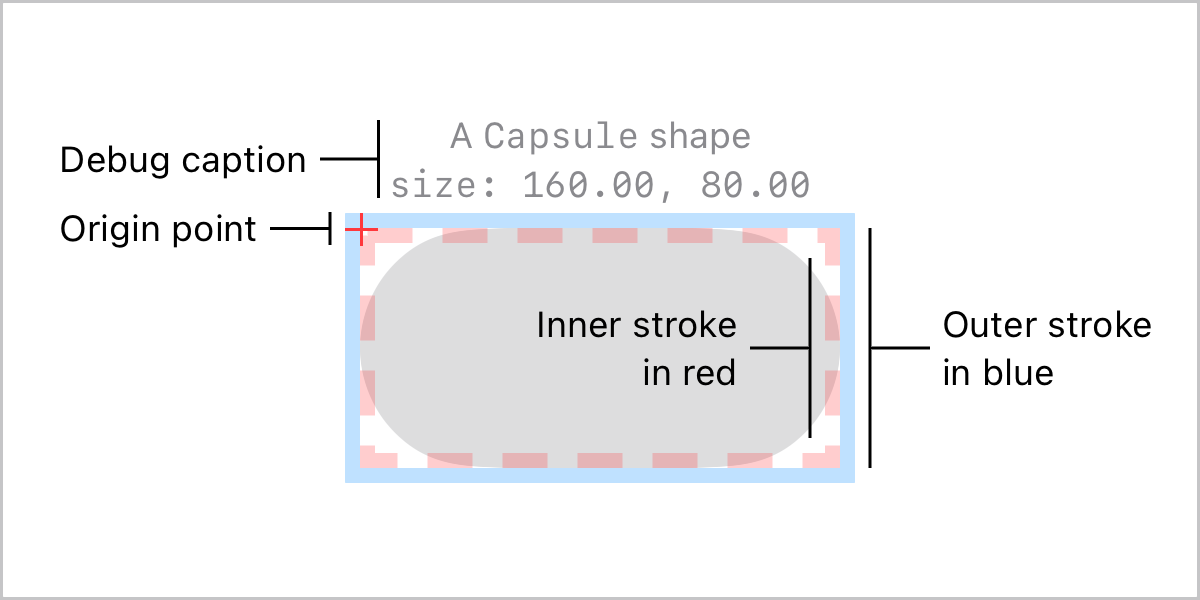
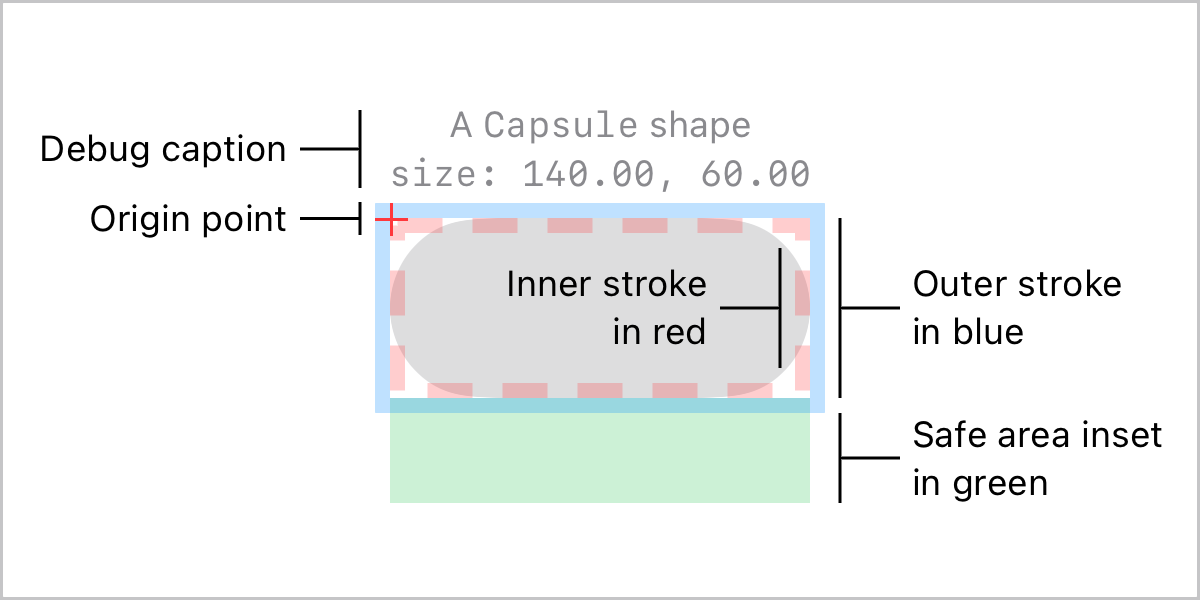
add safearea inset to components image

Changed region(s): [[0.0308, 0.18, 0.9867, 0.84], [0.74, 0.78, 0.8633, 0.84], [0.7708, 0.6, 0.8942, 0.66]]

diff --git a/sources/examples/DocsRenderPreview.swift b/sources/examples/DocsRenderPreview.swift
@@ -15,10 +15,10 @@ struct ExamplesForDebugOverlay {
     @ViewBuilder static var components: some View {
         Capsule()
         .fill(.quaternary)
-        .frame(width: 160, height: 80)
+        .frame(width: 140, height: 60)
         .debugOverlay(.caption("A `Capsule` shape"), .size, .alignment(.outerTop))
         .overlay {
-            // Outer Stroke.
+            // Outer stroke.
             FloatingAlignedContainer(alignment: .outerTrailing, spacing: 10) { contentAlignments in
                 HStack(spacing: 4) {
                     GeometryReader { geometry in
@@ -30,14 +30,34 @@ struct ExamplesForDebugOverlay {
                         }
                         .stroke(.primary, lineWidth: 1)
                     }
-                    .frame(size: [20, 80])
+                    .frame(size: [20, 60])
 
                     Text.caption("Outer stroke\nin blue")
                     .multilineTextAlignment(contentAlignments.text)
                 }
             }
 
-            // Inner Stroke.
+            // Safe area inset.
+            FloatingAlignedContainer(alignment: .outerTrailingUnder, spacing: 5) { contentAlignments in
+                HStack(spacing: 4) {
+                    GeometryReader { geometry in
+                        Path { path in
+                            path.move(to: .zero)
+                            path.addLine(to: [.zero, geometry.size.height])
+                            path.move(to: [.zero, geometry.size.height/2])
+                            path.addLine(to: [geometry.size.width, geometry.size.height/2])
+                        }
+                        .stroke(.primary, lineWidth: 1)
+                    }
+                    .frame(size: [20, 30])
+
+                    Text.caption("Safe area inset\nin green")
+                    .multilineTextAlignment(contentAlignments.text)
+                }
+                .offset(x: 5)
+            }
+
+            // Inner stroke.
             FloatingAlignedContainer(alignment: .innerTrailing, spacing: 10) { contentAlignments in
                 HStack(spacing: 4) {
                     Text.caption("Inner stroke\nin red")
@@ -52,11 +72,11 @@ struct ExamplesForDebugOverlay {
                         }
                         .stroke(.primary, lineWidth: 1)
                     }
-                    .frame(size: [20, 60])
+                    .frame(size: [20, 40])
                 }
             }
 
-            // Origin.
+            // Origin point.
             FloatingAlignedContainer(alignment: .outerLeadingTop, spacing: 10) { contentAlignments in
                 HStack(spacing: 4) {
                     Text.caption("Origin point")
@@ -76,7 +96,7 @@ struct ExamplesForDebugOverlay {
                 .offset(y: -17)
             }
 
-            // Debug Caption.
+            // Debug caption.
             FloatingAlignedContainer(alignment: .outerLeadingAbove, spacing: 10) { contentAlignments in
                 HStack(spacing: 4) {
                     Text.caption("Debug caption")
@@ -91,12 +111,16 @@ struct ExamplesForDebugOverlay {
                         }
                         .stroke(.primary, lineWidth: 1)
                     }
-                    .frame(size: [19.5, 26])
+                    .frame(size: [20, 26])
                 }
-                .offset(x: 16)
+//                .offset(x: 6)
             }
+        } // overlay
+        .safeAreaInset(edge: .bottom, spacing: .zero) {
+            ClearRectangle().frame(squareOf: 35)
         }
-        .offset(y: 16)
+        .offset(y: 20)
+
     }
 
 }